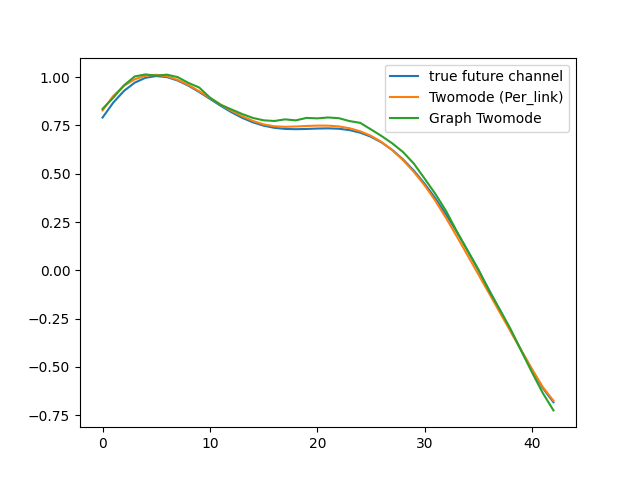
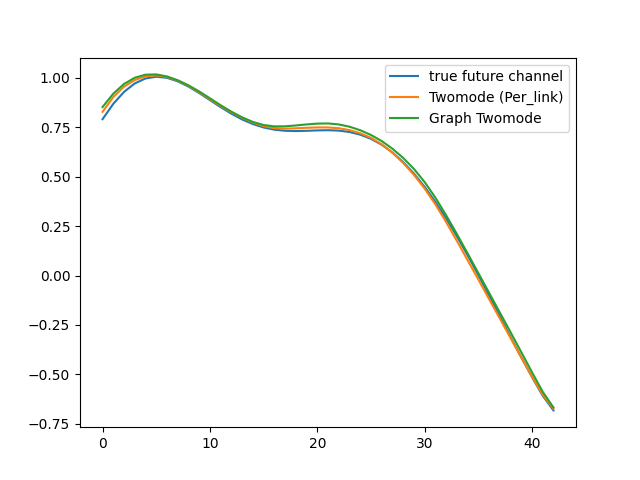
moving adjacency calculation to the top. now adjacency calculation happens only once instead of per-RB

diff --git a/dmimo/channel/twomode_graph_wesn_pred_v2.py b/dmimo/channel/twomode_graph_wesn_pred_v2.py
@@ -95,6 +95,13 @@ class twomode_graph_wesn_pred_v2:
         if not self.enable_window:
             window_weights = None
 
+        if self.adjacency_method is None:
+            self.adjacency = self.compute_None_adjacency()
+        elif self.adjacency_method == 'eigenmode_cov':
+            self.adjacency = self.compute_eigenmode_adjacency_cov(h_freq_csi_history)
+        else:
+            raise ValueError(f"Unsupported adjacency_method: {self.adjacency_method}")
+
         chan_pred = np.zeros(h_freq_csi_history[0,...].shape, dtype=self.dtype)
 
         S_list, Y_list = [], []
@@ -108,7 +115,6 @@ class twomode_graph_wesn_pred_v2:
                 # The lists loop over tx nodes first and rx nodes second
                 channel_train_input_list, meta_input = self.extract_tx_rx_node_pairs_numpy(channel_train_input[..., freq_re, ofdm_sym])
                 channel_train_gt_list, meta_gt = self.extract_tx_rx_node_pairs_numpy(channel_train_gt[..., freq_re, ofdm_sym])
-                num_node_pairs = len(channel_train_gt_list)
 
                 # Optional: do NOT reset S_0 here if you want cross-RB continuity
                 # self.S_0 = np.zeros([self.N_v, self.d_left, self.d_right], dtype=self.dtype)
@@ -153,7 +159,10 @@ class twomode_graph_wesn_pred_v2:
                     channel_train_gt[..., freq_re, ofdm_sym]
                 )  # list length N_v; each (T, n_rx_v, n_tx_v)
 
-                self.adjacency = self.compute_eigenmode_adjacency_cov(channel_test_input_list)
+                # if self.adjacency_method is None:
+                #     self.adjacency = self.compute_None_adjacency()
+                # elif self.adjacency_method == 'eigenmode_cov':
+                #     self.adjacency = self.compute_eigenmode_adjacency_cov(channel_test_input_list)
 
                 # Optional: continuity across RBs (comment these two lines to carry state)
                 # self.S_0 = np.zeros([self.N_v, self.d_left, self.d_right], dtype=self.dtype)
@@ -269,10 +278,12 @@ class twomode_graph_wesn_pred_v2:
         Y_target_3D_list = channel_output
 
         # Compute adjacency matrices once per RE and per ofdm sym.
-        if self.adjacency_method is None:
-            self.adjacency = self.compute_None_adjacency()
-        elif self.adjacency_method == 'eigenmode_cov':
-            self.adjacency = self.compute_eigenmode_adjacency_cov(Y_3D_list)
+        # if self.adjacency_method is None:
+        #     self.adjacency = self.compute_None_adjacency()
+        # elif self.adjacency_method == 'eigenmode_cov':
+        #     self.adjacency = self.compute_eigenmode_adjacency_cov(Y_3D_list)
+        if self.adjacency is None:
+            raise RuntimeError("Adjacency matrix has not been computed before build_S_Y call.")
 
         if self.enable_window:
             Y_3D_win_list = self.form_window_input_signal_list(Y_3D_list, curr_window_weights)
@@ -605,40 +616,82 @@ class twomode_graph_wesn_pred_v2:
 
     def compute_eigenmode_adjacency_cov(
         self,
-        channel_input,      # list of arrays, each (B, R_sel, T_sel)
+        h_freq_csi_history,
         subspace_rank_tx=2, # q_t
         subspace_rank_rx=2, # q_r
         shrinkage=0.0,
-        transpose_if_needed=False
+        transpose_if_needed=False,
+        center: bool = True,
+        unbiased: bool = True,
     ):
-        """
-        Covariance-based *joint* Tx/Rx subspace adjacency (Kronecker-space chordal affinity).
 
-        For each vertex v, estimate dominant Tx and Rx subspaces U_t[v] and U_r[v] from
-        time-averaged covariances R_tx, R_rx. The adjacency between vertices a,b is
+        B, _, _, R, _, T = h_freq_csi_history[..., 0, 0].shape
 
-            A[a,b] = ( || U_r[a]^H U_r[b] ||_F^2 / q_r ) * ( || U_t[a]^H U_t[b] ||_F^2 / q_t )
+        rx_nodes = self._node_slices(R, first_node_ants=4, rest_node_ants=2)
+        tx_nodes = self._node_slices(T, first_node_ants=4, rest_node_ants=2)
 
-        which equals the normalized chordal affinity of the *joint* subspaces span(U_r ⊗ U_t)
-        without explicitly forming Kronecker products. Values are in [0,1], diagonal = 1,
-        and the result is symmetrized.
+        per_link_channels = []
+        meta  = []
 
-        Args:
-            channel_input: list of length N_v; each item is array (B, R_sel, T_sel) of complex64
-                        mini-batches for that vertex/link.
-            subspace_rank_tx: q_t, target Tx subspace rank (capped by T_sel).
-            subspace_rank_rx: q_r, target Rx subspace rank (capped by R_sel).
-            shrinkage: scalar in [0,1]; if >0, apply diagonal shrinkage to covariances.
-            transpose_if_needed: if True and R_sel < T_sel, transpose per-batch matrices so
-                                that the "Rx" dimension is the larger one (keeps conventions).
+        # tx-major ordering of the list; change loop order if you prefer tx-major
+        for r_i, r_idx in enumerate(rx_nodes):
+            for t_i, t_idx in enumerate(tx_nodes):
+                # Slice: (B, r, t)
+                block = h_freq_csi_history[:, 0, 0, r_idx, 0, ...]
+                block = block[:, :, t_idx, ...]
+                per_link_channels.append(block)
+                meta.append({
+                    "rx_node": r_i,
+                    "rx_ant_idx": r_idx.tolist(),
+                    "tx_node": t_i,
+                    "tx_ant_idx": t_idx.tolist(),
+                    "block_shape": tuple(block.shape)
+                })
 
-        Returns:
-            adj: (N_v, N_v) float64 numpy array with values in [0,1].
-        """
-        import numpy as np
-
-        N_v = len(channel_input)
         Tx_bases, Rx_bases = [], []
+
+        for H in per_link_channels:
+
+            T, Rx, Tx, S, R = H.shape
+
+            Hk = np.reshape(H, (T, Rx, Tx, S * R))
+            Hk = np.moveaxis(Hk, (0, 3), (0, 1))  # (T, Rx, Tx, SR) -> (T, SR, Rx, Tx)
+            Hk = np.reshape(Hk, (T * S * R, Rx, Tx))  # (K, Rx, Tx)
+
+            K = Hk.shape[0]
+
+            if center:
+                mu = Hk.mean(axis=0, keepdims=True)  # (1, Rx, Tx)
+                Hk = Hk - mu
+
+            denom = float((K - 1) if (unbiased and K > 1) else K)
+
+            # --- Receive-side covariance: R_rx = E[ H H^H ] ---
+            # Compute per-snapshot products (K, Rx, Rx), then average over K
+            Hk_H = np.transpose(Hk.conj(), (0, 2, 1))        # (K, Tx, Rx)
+            prod_rx = Hk @ Hk_H                               # (K, Rx, Rx)
+            R_rx = prod_rx.sum(axis=0) / denom                # (Rx, Rx)
+
+            # --- Transmit-side covariance: R_tx = E[ H^H H ] ---
+            HkH = Hk.conj().transpose(0, 2, 1)               # (K, Tx, Rx)
+            prod_tx = HkH @ Hk                                # (K, Tx, Tx)
+            R_tx = prod_tx.sum(axis=0) / denom                # (Tx, Tx)
+
+            # Eigen-decomp (Hermitian), take top-q
+            eval_tx, evec_tx = np.linalg.eigh(R_tx)
+            eval_rx, evec_rx = np.linalg.eigh(R_rx)
+            idx_tx = np.argsort(eval_tx)[::-1]
+            idx_rx = np.argsort(eval_rx)[::-1]
+            Ut = evec_tx[:, idx_tx[:subspace_rank_tx]] 
+            Ur = evec_rx[:, idx_rx[:subspace_rank_rx]]
+
+            # QR for numerical stability (keeps orthonormal columns)
+            Ut, _ = np.linalg.qr(Ut)
+            Ur, _ = np.linalg.qr(Ur)
+                
+
+            Tx_bases.append(Ut)  # (T_sel x q_t)
+            Rx_bases.append(Ur)  # (R_sel x q_r)
 
         def pad_rows(Q, N_target):
             """Zero-pad rows of Q (n x q) to (N_target x q)."""
@@ -649,63 +702,6 @@ class twomode_graph_wesn_pred_v2:
             Qp[:n, :] = Q
             return Qp
 
-        # --- Per-vertex subspace estimation ---
-        for v in range(N_v):
-            Yv = channel_input[v]
-            if Yv.ndim != 3:
-                raise ValueError("Each list element must be 3D (B, R_sel, T_sel)")
-            if transpose_if_needed and Yv.shape[1] < Yv.shape[2]:
-                Yv = np.transpose(Yv, (0, 2, 1))  # now (B, T_sel, R_sel); next lines adapt via shapes
-
-            B, dim1, dim2 = Yv.shape
-
-            # Interpret as (B, R_sel, T_sel) regardless of optional transpose
-            # If we transposed above, then dim1 is T_sel and dim2 is R_sel; swap back logically.
-            if transpose_if_needed and Yv.shape[1] > Yv.shape[2]:
-                R_sel, T_sel = dim2, dim1
-                # Build covariances by viewing Hb as (R_sel x T_sel) again:
-                R_tx = np.zeros((T_sel, T_sel), dtype=np.complex64)
-                R_rx = np.zeros((R_sel, R_sel), dtype=np.complex64)
-                for b in range(B):
-                    Hb = Yv[b].T  # (R_sel, T_sel)
-                    R_tx += Hb.conj().T @ Hb
-                    R_rx += Hb @ Hb.conj().T
-            else:
-                R_sel, T_sel = dim1, dim2
-                R_tx = np.zeros((T_sel, T_sel), dtype=np.complex64)
-                R_rx = np.zeros((R_sel, R_sel), dtype=np.complex64)
-                for b in range(B):
-                    Hb = Yv[b]  # (R_sel, T_sel)
-                    R_tx += Hb.conj().T @ Hb
-                    R_rx += Hb @ Hb.conj().T
-
-            R_tx /= max(B, 1)
-            R_rx /= max(B, 1)
-
-            if shrinkage > 0.0:
-                tr_tx = float(np.real(np.trace(R_tx))) / max(T_sel, 1)
-                tr_rx = float(np.real(np.trace(R_rx))) / max(R_sel, 1)
-                R_tx = (1.0 - shrinkage) * R_tx + shrinkage * tr_tx * np.eye(T_sel, dtype=R_tx.dtype)
-                R_rx = (1.0 - shrinkage) * R_rx + shrinkage * tr_rx * np.eye(R_sel, dtype=R_rx.dtype)
-
-            # Eigen-decomp (Hermitian), take top-q
-            eval_tx, evec_tx = np.linalg.eigh(R_tx)
-            eval_rx, evec_rx = np.linalg.eigh(R_rx)
-            idx_tx = np.argsort(eval_tx)[::-1]
-            idx_rx = np.argsort(eval_rx)[::-1]
-            q_t = max(0, min(subspace_rank_tx, T_sel))
-            q_r = max(0, min(subspace_rank_rx, R_sel))
-            Ut = evec_tx[:, idx_tx[:q_t]] if q_t > 0 else np.zeros((T_sel, 0), dtype=R_tx.dtype)
-            Ur = evec_rx[:, idx_rx[:q_r]] if q_r > 0 else np.zeros((R_sel, 0), dtype=R_rx.dtype)
-
-            # QR for numerical stability (keeps orthonormal columns)
-            if q_t > 0:
-                Ut, _ = np.linalg.qr(Ut)
-            if q_r > 0:
-                Ur, _ = np.linalg.qr(Ur)
-
-            Tx_bases.append(Ut)  # (T_sel x q_t)
-            Rx_bases.append(Ur)  # (R_sel x q_r)
 
         # --- Joint subspace chordal affinity via product of Tx/Rx overlaps ---
         def joint_affinity(Ur_a, Ut_a, Ur_b, Ut_b):
@@ -751,14 +747,16 @@ class twomode_graph_wesn_pred_v2:
                 val = 0.0
             return float(np.clip(val, 0.0, 1.0))
 
-        adj = np.zeros((N_v, N_v), dtype=np.float64)
-        for a in range(N_v):
-            for b in range(N_v):
+        adj = np.zeros((self.N_v, self.N_v), dtype=np.float64)
+        for a in range(self.N_v):
+            for b in range(self.N_v):
                 adj[a, b] = joint_affinity(Rx_bases[a], Tx_bases[a], Rx_bases[b], Tx_bases[b])
 
         # Force symmetry and self-loops
         adj = 0.5 * (adj + adj.T)
         np.fill_diagonal(adj, 1.0)
+
+        adj = np.round(adj)
 
         return adj
 

diff --git a/dmimo/dmimo_chanpred.py b/dmimo/dmimo_chanpred.py
@@ -339,7 +339,7 @@ class MU_MIMO(Model):
                                                  num_freq_re=RB, 
                                                  num_rx_ant=RxAnt, 
                                                  num_tx_ant=TxAnt,
-                                                 adjacency_method='eigenmode_cov'
+                                                #  adjacency_method='eigenmode_cov'
                                                 )
             h_freq_csi_graph_twomode = graph_twomode_predictor.predict(h_freq_csi_history)
             pred_nmse_graph_twomode_wesn = self.nmse(h_freq_csi_true[0,...], h_freq_csi_graph_twomode[0,...])
